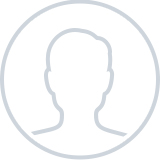
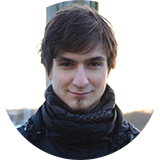
Minor cleanup. Added my face.

diff --git a/_posts/2013-08-25-ludum-dare-a-started-project-is-better-than-no-project.html b/_posts/2013-08-25-ludum-dare-a-started-project-is-better-than-no-project.html
@@ -30,7 +30,7 @@ excerpt: !ruby/object:Hpricot::Doc
 <p>The Ludum Dare team has come up with an additional challenge, called <a href="http://www.ludumdare.com/compo/2012/09/27/announcing-october-challenge-2012/"><em>The October Challenge</em></a>. In order to complete it, one must complete a game, publish it and earn $1 from it. That's it. It's the idea of finishing a project and putting it out there on the market.</p>
 <p>I will take on this challenge, but I will limit myself to the first two goals. To just publish my game (for free!) on the Android Market, by the end of October. Progress will obviously be tracked on this blog every Sunday.</p>
 <p>Like stated before, the theme of this competition was "10 seconds". My approach was to build an infinite running hack'n'slash/shoot'em'up game where the player's abilities (and, as a consequence thereof, the gameplay style) would change every ten seconds. Each "state" is associated with an animal whose abilities the human character you're playing as takes on. The <em>bear</em> aspect enables melee slashes that deal a lot of damage. The <em>raven</em> has a weak attack but causes dead enemies to explode and damage other, potentially causing satisfying chain reactions. The <em>peacock</em> can deflect enemy attacks, but doesn't attack itself. These are the main three animals I will implement, with the goal being to add way more of them for the player to unlock, as they progress. Randomly cycling through these should be tuned so that it keeps the game fresh and doesn't frustrate, confuse or bore the player.</p>
-<p>The end goal is to have the game feel really good, exciting and rewarding. These kind of games rely on replayability. Flying numbers, combos, screen shaking, upgrades, light effects, and all that <a title="Juice is like the best. I like grape juice." href="http://www.youtube.com/watch?v=Fy0aCDmgnxg">juice</a>.</p>
+<p>The end goal is to have the game feel really good, exciting and rewarding. This kind of game relies on replayability. Flying numbers, combos, screen shaking, upgrades, light effects, and all that <a title="Juice is like the best. I like grape juice." href="http://www.youtube.com/watch?v=Fy0aCDmgnxg">juice</a>.</p>
 <p>Right now, I just handle the basic game states - load/menu/startup/playing/dead/restart/quit. Some sort of progress tracking and crude level generation is also in place, but that's pretty much it. This is the current menu screen that greets the player upon startup.</p>
 <p>[caption id="attachment_27" align="aligncenter" width="300"]<a href="http://blog.siegedog.com/wp-content/uploads/2013/08/bgms.jpg"><img class="size-medium wp-image-27" alt="A... humble beginning. Like, really humble." src="assets/bgms-300x175.jpg" width="300" height="175" /></a> No background or tiles yet[/caption]</p>
 <p>So, stay tuned for updates!</p>

diff --git a/_layouts/post.html b/_layouts/post.html
@@ -1,6 +1,6 @@
 ---
 layout: default
-disqus: false
+disqus: true
 archive: true
 ---
 
@@ -27,16 +27,16 @@ archive: true
     </section>
 </footer>
 
-<!-- Disqus comments -->
 {% if page.disqus %}
+    <!-- Disqus comments -->
     <div class="archive readmore">
         <h3>Comments</h3>
         {% include disqus.html %}
     </div>
 {% endif %}
 
-<!-- Archive post list -->
 {% if page.archive %}
+    <!-- Archive post list -->
     <ul id="post-list" class="archive readmore">
         <h3>Read more</h3>
         {% for post in site.posts %}
